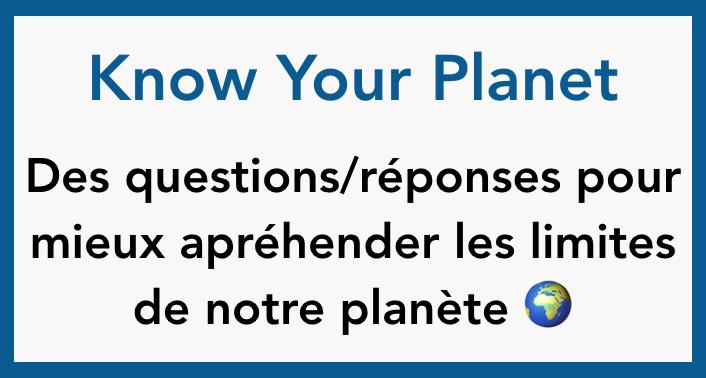
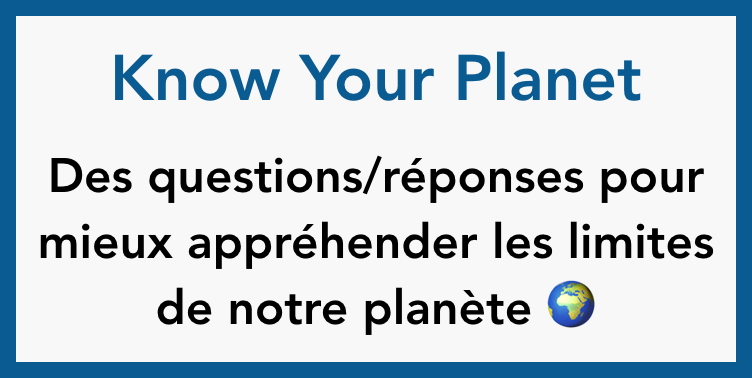
Frontend: Fix typo in app description. update image

diff --git a/frontend/public/index.html b/frontend/public/index.html
@@ -12,20 +12,20 @@
 
     <title>Know Your Planet</title>
     <meta name="title" content="Know Your Planet">
-    <meta name="description" content="Des questions/réponses pour mieux apréhender les limites de notre planète">
+    <meta name="description" content="Des questions/réponses pour mieux appréhender les limites de notre planète">
     
     <!-- Open Graph / Facebook -->
     <meta property="og:type" content="website">
     <meta property="og:url" content="https://know-your-planet.netlify.com/">
     <meta property="og:title" content="Know Your Planet">
-    <meta property="og:description" content="Des questions/réponses pour mieux apréhender les limites de notre planète">
+    <meta property="og:description" content="Des questions/réponses pour mieux appréhender les limites de notre planète">
     <meta property="og:image" content="<%= BASE_URL %>summary_large_image.png">
 
     <!-- Twitter -->
     <meta property="twitter:card" content="summary_large_image">
     <meta property="twitter:url" content="https://know-your-planet.netlify.com/">
     <meta property="twitter:title" content="Know Your Planet">
-    <meta property="twitter:description" content="Des questions/réponses pour mieux apréhender les limites de notre planète">
+    <meta property="twitter:description" content="Des questions/réponses pour mieux appréhender les limites de notre planète">
     <meta property="twitter:image" content="<%= BASE_URL %>summary_large_image.png">
   </head>
   <body>

diff --git a/frontend/src/components/Header.vue b/frontend/src/components/Header.vue
@@ -3,7 +3,7 @@
     <h1 class="title">
       <router-link class="no-decoration" :to="{ name: 'home' }">Know Your Planet</router-link>
     </h1>
-    <h2>Des questions/réponses pour mieux apréhender les limites de notre planète&nbsp;🌍</h2>
+    <h2>Des questions/réponses pour mieux appréhender les limites de notre planète&nbsp;🌍</h2>
   </header>
 </template>
 
@@ -16,6 +16,8 @@ export default {
 <style scoped>
 header {
   border: 10px solid #005995;
+  padding-left: 10px;
+  padding-right: 10px;
 }
 .title {
   color: #005995;

diff --git a/CHANGELOG.md b/CHANGELOG.md
@@ -8,18 +8,23 @@ Des pistes dans [README#idées](README#idées)
 
 ## [0.2.0] - 2020-03-11
 
+### Ajouté
+
 - [Data] Ajout de toutes les questions (80+)
 - [Backend] Un modèle QuestionStats pour commencer à avoir des stats d'usage (nombre de réponses par question, nombre de réponses correctes par question, ...)
 - [Backend] Ajout d'un champs `author` dans le modèle Question
 - [Backend] Ajout d'un champs `publish` (boolean) dans le modèle Question
 - [Backend] Une ressource API `/questions/:id/stats` pour récupérer les résultats de chaque réponse
-- [Frontend] Amélioration des champs meta de l'application, et ajout d'une image
-- [Frontend] Meilleur affichage de la catégorie et de la difficulté des questions
-- [Frontend] Ajout d'informations dans la page `/a-propos`
+- [Frontend] Amélioration des champs meta dans le `<head>` de l'application, et ajout d'une image
 - [Frontend] Le titre de la page (i.e. le nom de l'onglet) est maintenant un peu dynamique
 - [Frontend] Ajout d'un favicon (i.e. le logo de l'onglet)
 - [DevOps] Ajout du projet à [Kaffeine](https://kaffeine.herokuapp.com/) pour eviter que l'app backend se mette en pause (car elle tourne sur le plan gratuit Heroku)
 - [Documentation] Rajout de la section `Idées` dans le README
+
+### Modifié
+
+- [Frontend] Meilleur affichage de la catégorie et de la difficulté des questions
+- [Frontend] Ajout d'informations dans la page `/a-propos`
 
 ## [0.1.0] - 2020-03-08
 

diff --git a/README.md b/README.md
@@ -1,6 +1,6 @@
 # Know Your Planet 🌍
 
-Mieux apréhender les limites de notre planète, à travers des questions simples et sourcées.
+Mieux appréhender les limites de notre planète, à travers des questions simples et sourcées.
 
 ## But
 
